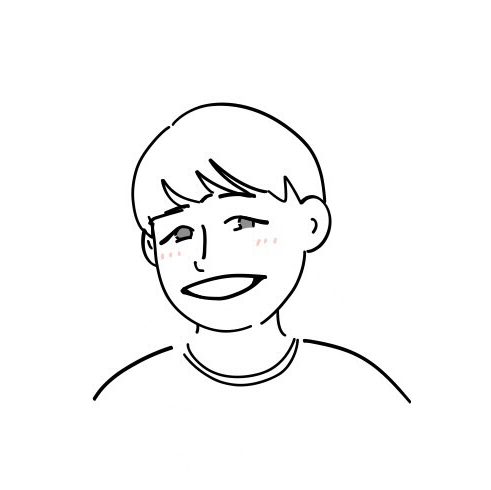
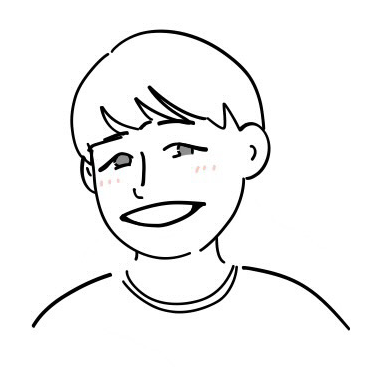
トップのレイアウト調整完了

diff --git a/app/components/layouts/header/Header.tsx b/app/components/layouts/header/Header.tsx
@@ -1,10 +1,12 @@
 'use client'
 import Image from "next/image";
 import Link from "next/link";
+import { pageLinks } from "@/data/links";
+import { topLink } from "@/data/links";
 import { useEffect } from "react";
 import { usePathname } from 'next/navigation';
 
-const Header = () => {
+const Header: React.FC = () => {
   const pathname: string  = usePathname();
 
   useEffect(() => {
@@ -42,7 +44,9 @@ const Header = () => {
   return (
     <header className="py-5 px-7 w-full fixed transition-transform duration-300">
       <div className="flex justify-between items-center">
-        <Link href='/'>
+        {
+          topLink.map(({name, href}) => (
+        <Link href={href} key={name}>
           <Image 
             src="/home-img.svg"
             height={24}
@@ -50,9 +54,14 @@ const Header = () => {
             alt=""
           />
         </Link>
+          ))
+        }
         <div className="flex justify-center gap-7">
-          <Link href='/profile'>Profile</Link>
-          <Link href='/blog'>Blog</Link>
+          {
+            pageLinks.map(({name, href}) => (
+              <Link href={href} key={name}>{name}</Link>
+            ))
+          }
         </div>
       </div>
     </header>

diff --git a/features/top/conponents/Main.tsx b/features/top/conponents/Main.tsx
@@ -1,0 +1,31 @@
+import Image from "next/image";
+import Link from "next/link";
+import { pageLinks } from "@/data/links";
+
+const Main:React.FC = () => {
+
+  return (
+    <div className="flex flex-col items-center justify-center w-full h-full">
+      <div className="w-full flex flex-col items-center justify-end grow-1.3">
+        <Image 
+          src="/illustration.png"
+          height={248}
+          width={248}
+          alt=""
+          className="mb-6"
+        />
+        <h1 className="font-spartan text-5xl tracking-widest font-semibold">saka&apos;s portfolio site</h1>
+      </div>
+      <div className="flex items-center justify-center gap-16 grow">
+        {
+          pageLinks.map(({ name, href }) => (
+            <Link href={href} key={name} className="after:content-[''] after:w-6/12 after:h-0.5 after:bg-[#0094FF] after:block after:m-auto inline-block font-spartan text-2xl tracking-wider leading-relaxed">{name}</Link>
+          ))
+        }
+      </div>
+        
+    </div>
+  );
+}
+
+export default Main;

diff --git a/tailwind.config.ts b/tailwind.config.ts
@@ -5,6 +5,7 @@ const config: Config = {
     "./pages/**/*.{js,ts,jsx,tsx,mdx}",
     "./components/**/*.{js,ts,jsx,tsx,mdx}",
     "./app/**/*.{js,ts,jsx,tsx,mdx}",
+    "./features/**/*.{js,ts,jsx,tsx,mdx}",
   ],
   theme: {
     extend: {
@@ -20,7 +21,10 @@ const config: Config = {
       fontFamily: {
         'spartan': ['Spartan', 'sans-serif'],
         'noto-sans-jp': ['Noto Sans JP', 'sans-serif']
-      }
+      },
+      flexGrow: {
+        1.3: '1.3',
+      },
     },
   },
   plugins: [],

diff --git a/app/page.tsx b/app/page.tsx
@@ -1,15 +1,7 @@
-import Image from "next/image";
+import Main from "@/features/top/conponents/Main";
 
 export default function Home() {
   return (
-    <div className="flex flex-col items-center justify-center min-h-screen">
-      <Image 
-        src="/illustration.png"
-        height={320}
-        width={320}
-        alt=""
-      />
-      <h1 className="font-spartan text-5xl tracking-widest font-semibold">saka&apos;s portfolio site</h1>
-    </div>
+    <Main />
   );
 }

diff --git a/app/globals.css b/app/globals.css
@@ -1,10 +1,10 @@
 @import url('https://fonts.googleapis.com/css2?family=Spartan:wght@400;700&family=Noto+Sans+JP:wght@400;500;700&display=swap');
 @tailwind base;
 @tailwind components;
-.h1Tit { @apply text-5xl tracking-widest font-semibold}
+@tailwind utilities;
+.h1Tit { @apply text-5xl tracking-widest font-semibold leading-relaxed}
 .h1Tit::after { @apply content-[''] block w-6/12 h-1 bg-[#0094FF] m-auto} 
 .calc-100 { height: calc(100vh - 65px);}
-@tailwind utilities;
 
 
 

diff --git a/data/accounts.ts b/data/accounts.ts
@@ -1,0 +1,20 @@
+type AccountLink = {
+  icon: string;
+  href: string;
+};
+
+/** 各種アカウントのリンク */
+export const accountLinks: AccountLink[] = [
+  {
+    icon: "mastodon",
+    href: "https://imastodon.net/@arrow2nd"
+  },
+  {
+    icon: "github",
+    href: "https://github.com/arrow2nd"
+  },
+  {
+    icon: "mail",
+    href: "mailto:contact@arrow2nd.com"
+  }
+];

diff --git a/data/links.ts b/data/links.ts
@@ -1,0 +1,25 @@
+type PageLink = {
+  name: string;
+  href: string;
+};
+
+/** Topのリンク */
+export const topLink: PageLink[] = [
+  {
+    name: "Top",
+    href: "/"
+  }
+];
+
+/** 各ページへのリンク */
+export const pageLinks: PageLink[] = [
+  {
+    name: "Profile",
+    href: "/profile"
+  },
+  {
+    name: "Blog",
+    href: "/blog"
+  }
+];
+

diff --git a/app/profile/page.tsx b/app/profile/page.tsx
@@ -3,7 +3,7 @@ import Image from "next/image";
 export default function ProfilePage() {
   return (
     <div className="flex flex-col items-center justify-center min-h-screen">
-      <h1 className="font-spartan leading-relaxed h1Tit">Profile</h1>
+      <h1 className="font-spartan h1Tit">Profile</h1>
     </div>
   );
 }

diff --git a/app/blog/page.tsx b/app/blog/page.tsx
@@ -1,9 +1,8 @@
-import Image from "next/image";
 
 export default function BlogPage() {
   return (
     <div className="flex flex-col items-center justify-center min-h-screen">
-      <h1 className="font-spartan leading-relaxed h1Tit">Blog</h1>
+      <h1 className="font-spartan h1Tit">Blog</h1>
     </div>
   );
 }

diff --git a/data/site.ts b/data/site.ts
@@ -1,0 +1,6 @@
+/** サイトの情報 */
+export const Site = {
+  defaultTitle: "saka's portfolio site",
+  defaultDescription: "sakaのポートフォリオのようなもの",
+  titleTemplate: `%s | saka`,
+};

diff --git a/app/components/layouts/footer/footer.tsx b/app/components/layouts/footer/footer.tsx
@@ -3,7 +3,7 @@ const Footer = () => {
     <footer className="py-5 text-center">
       <p>© Saka & Tai 2024</p>
     </footer>
-  )
+  );
 }
 
 export default Footer;
